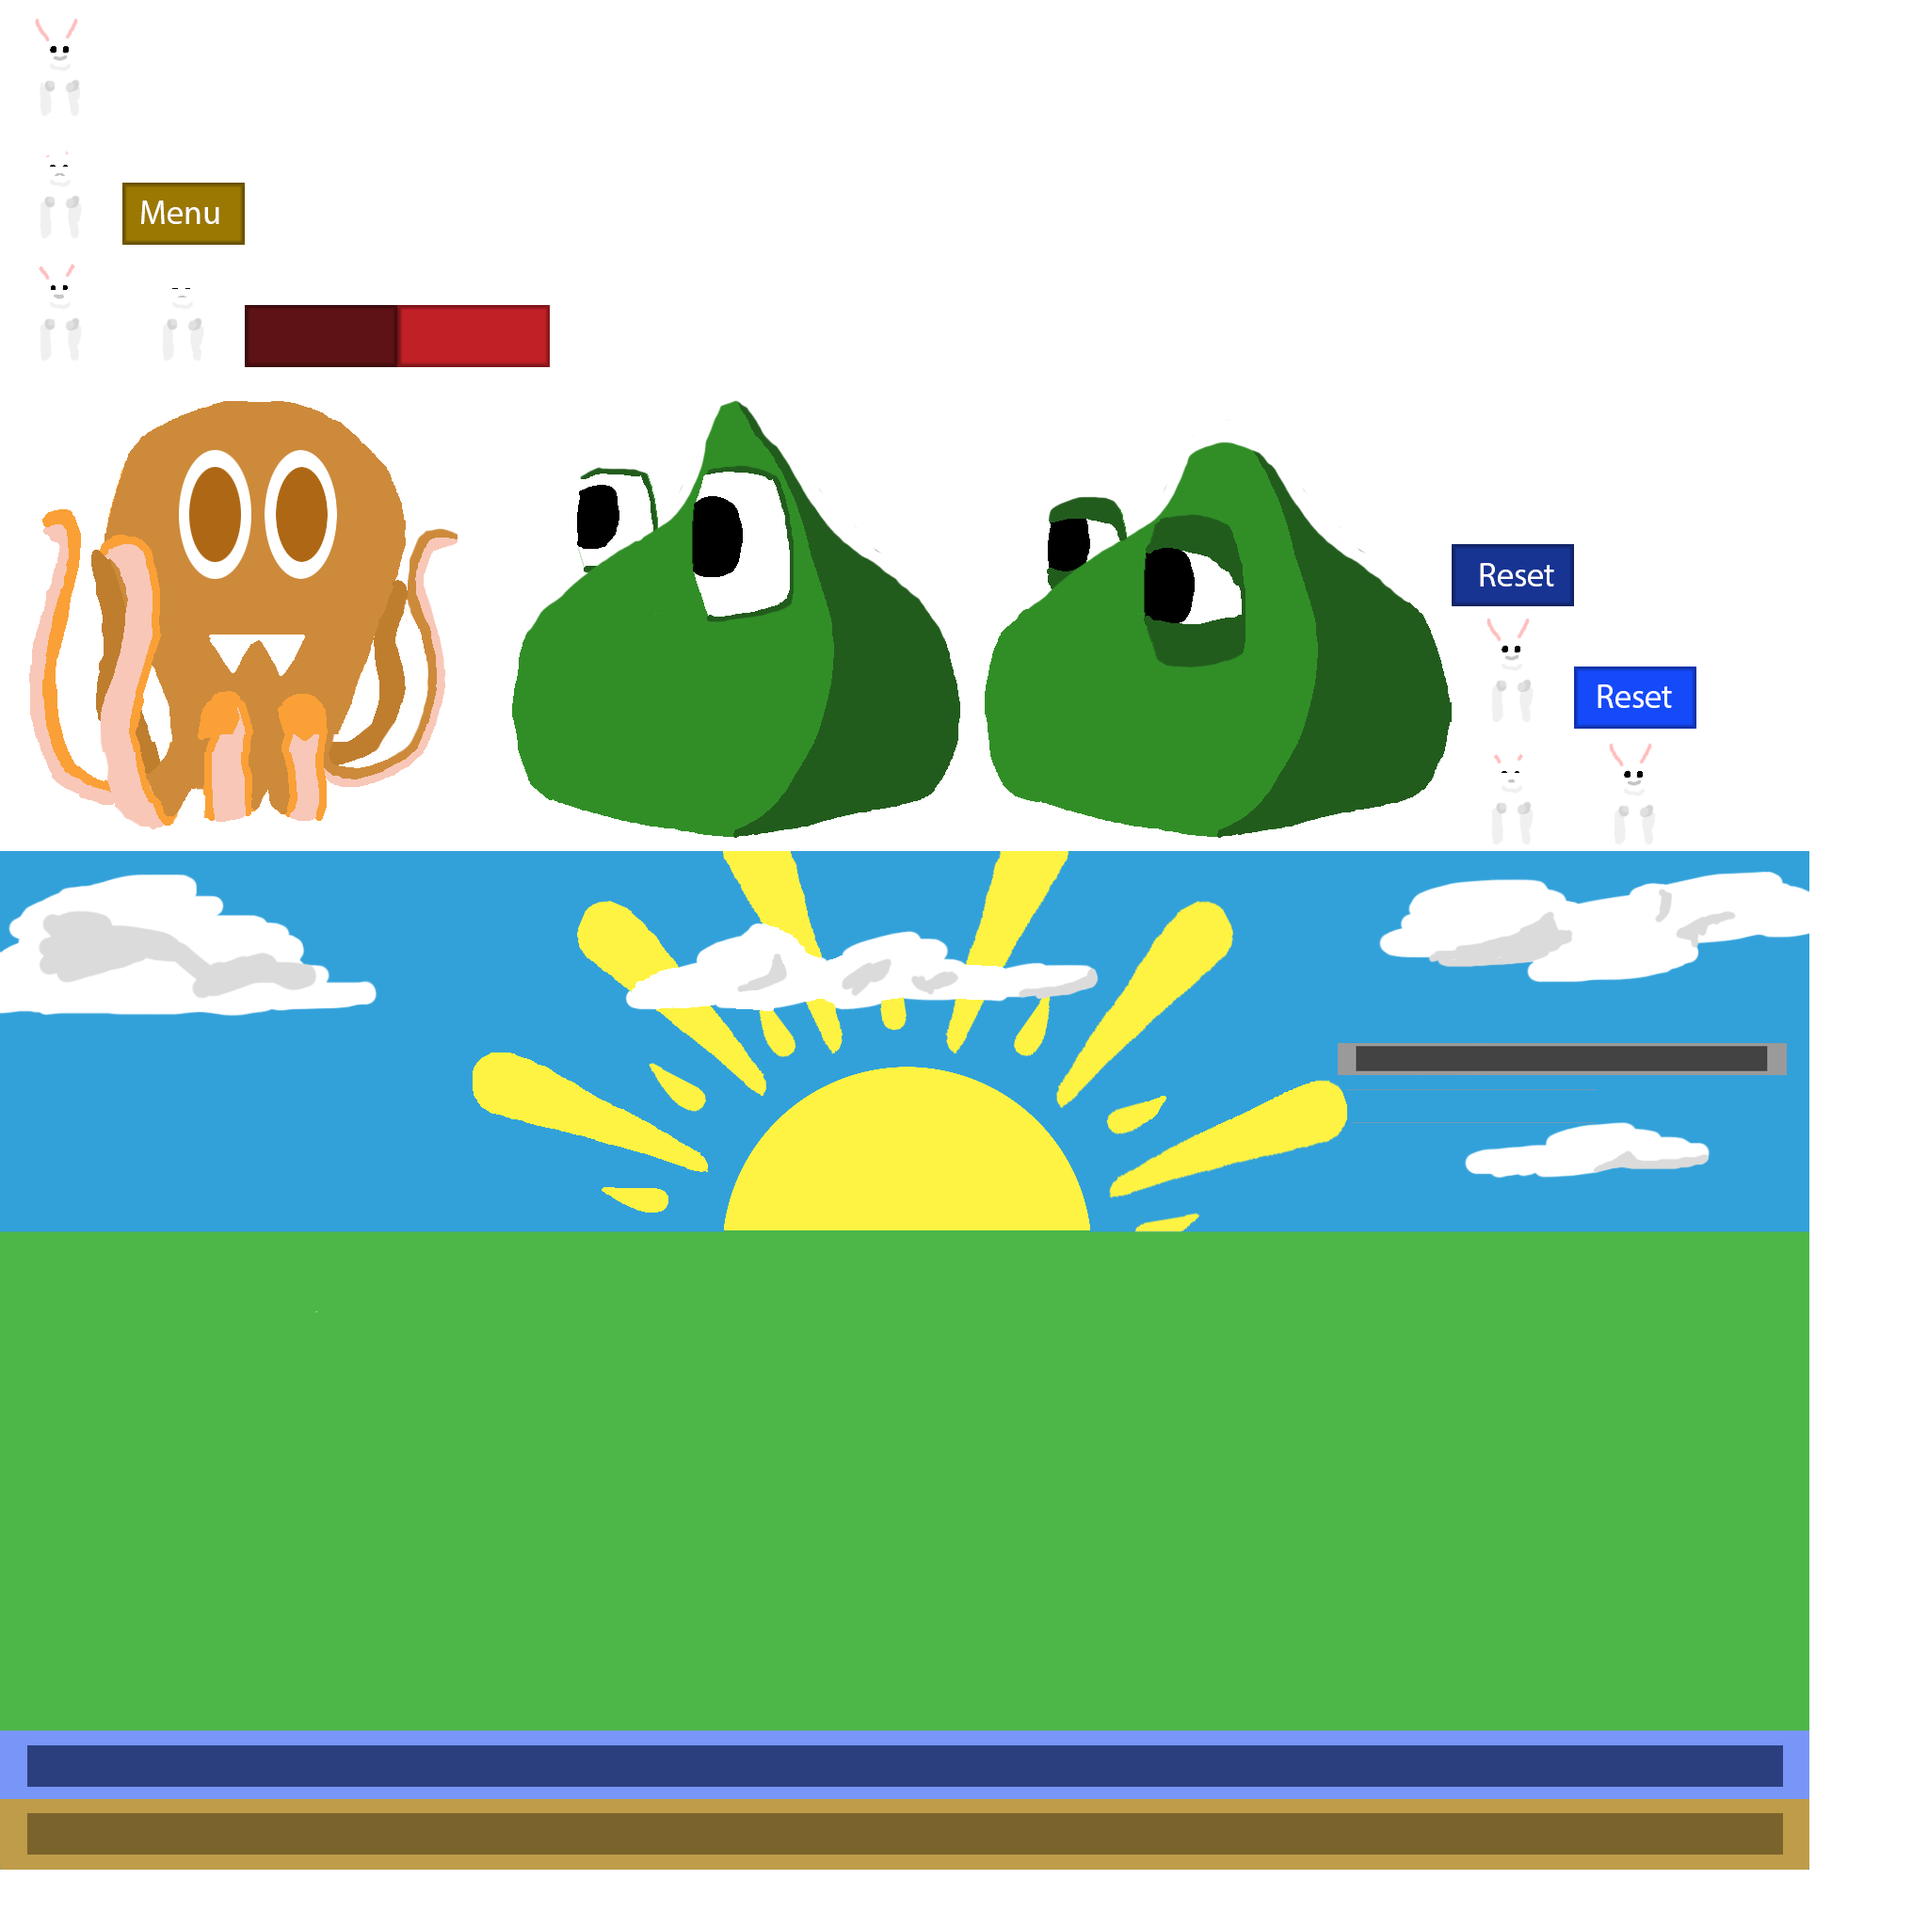
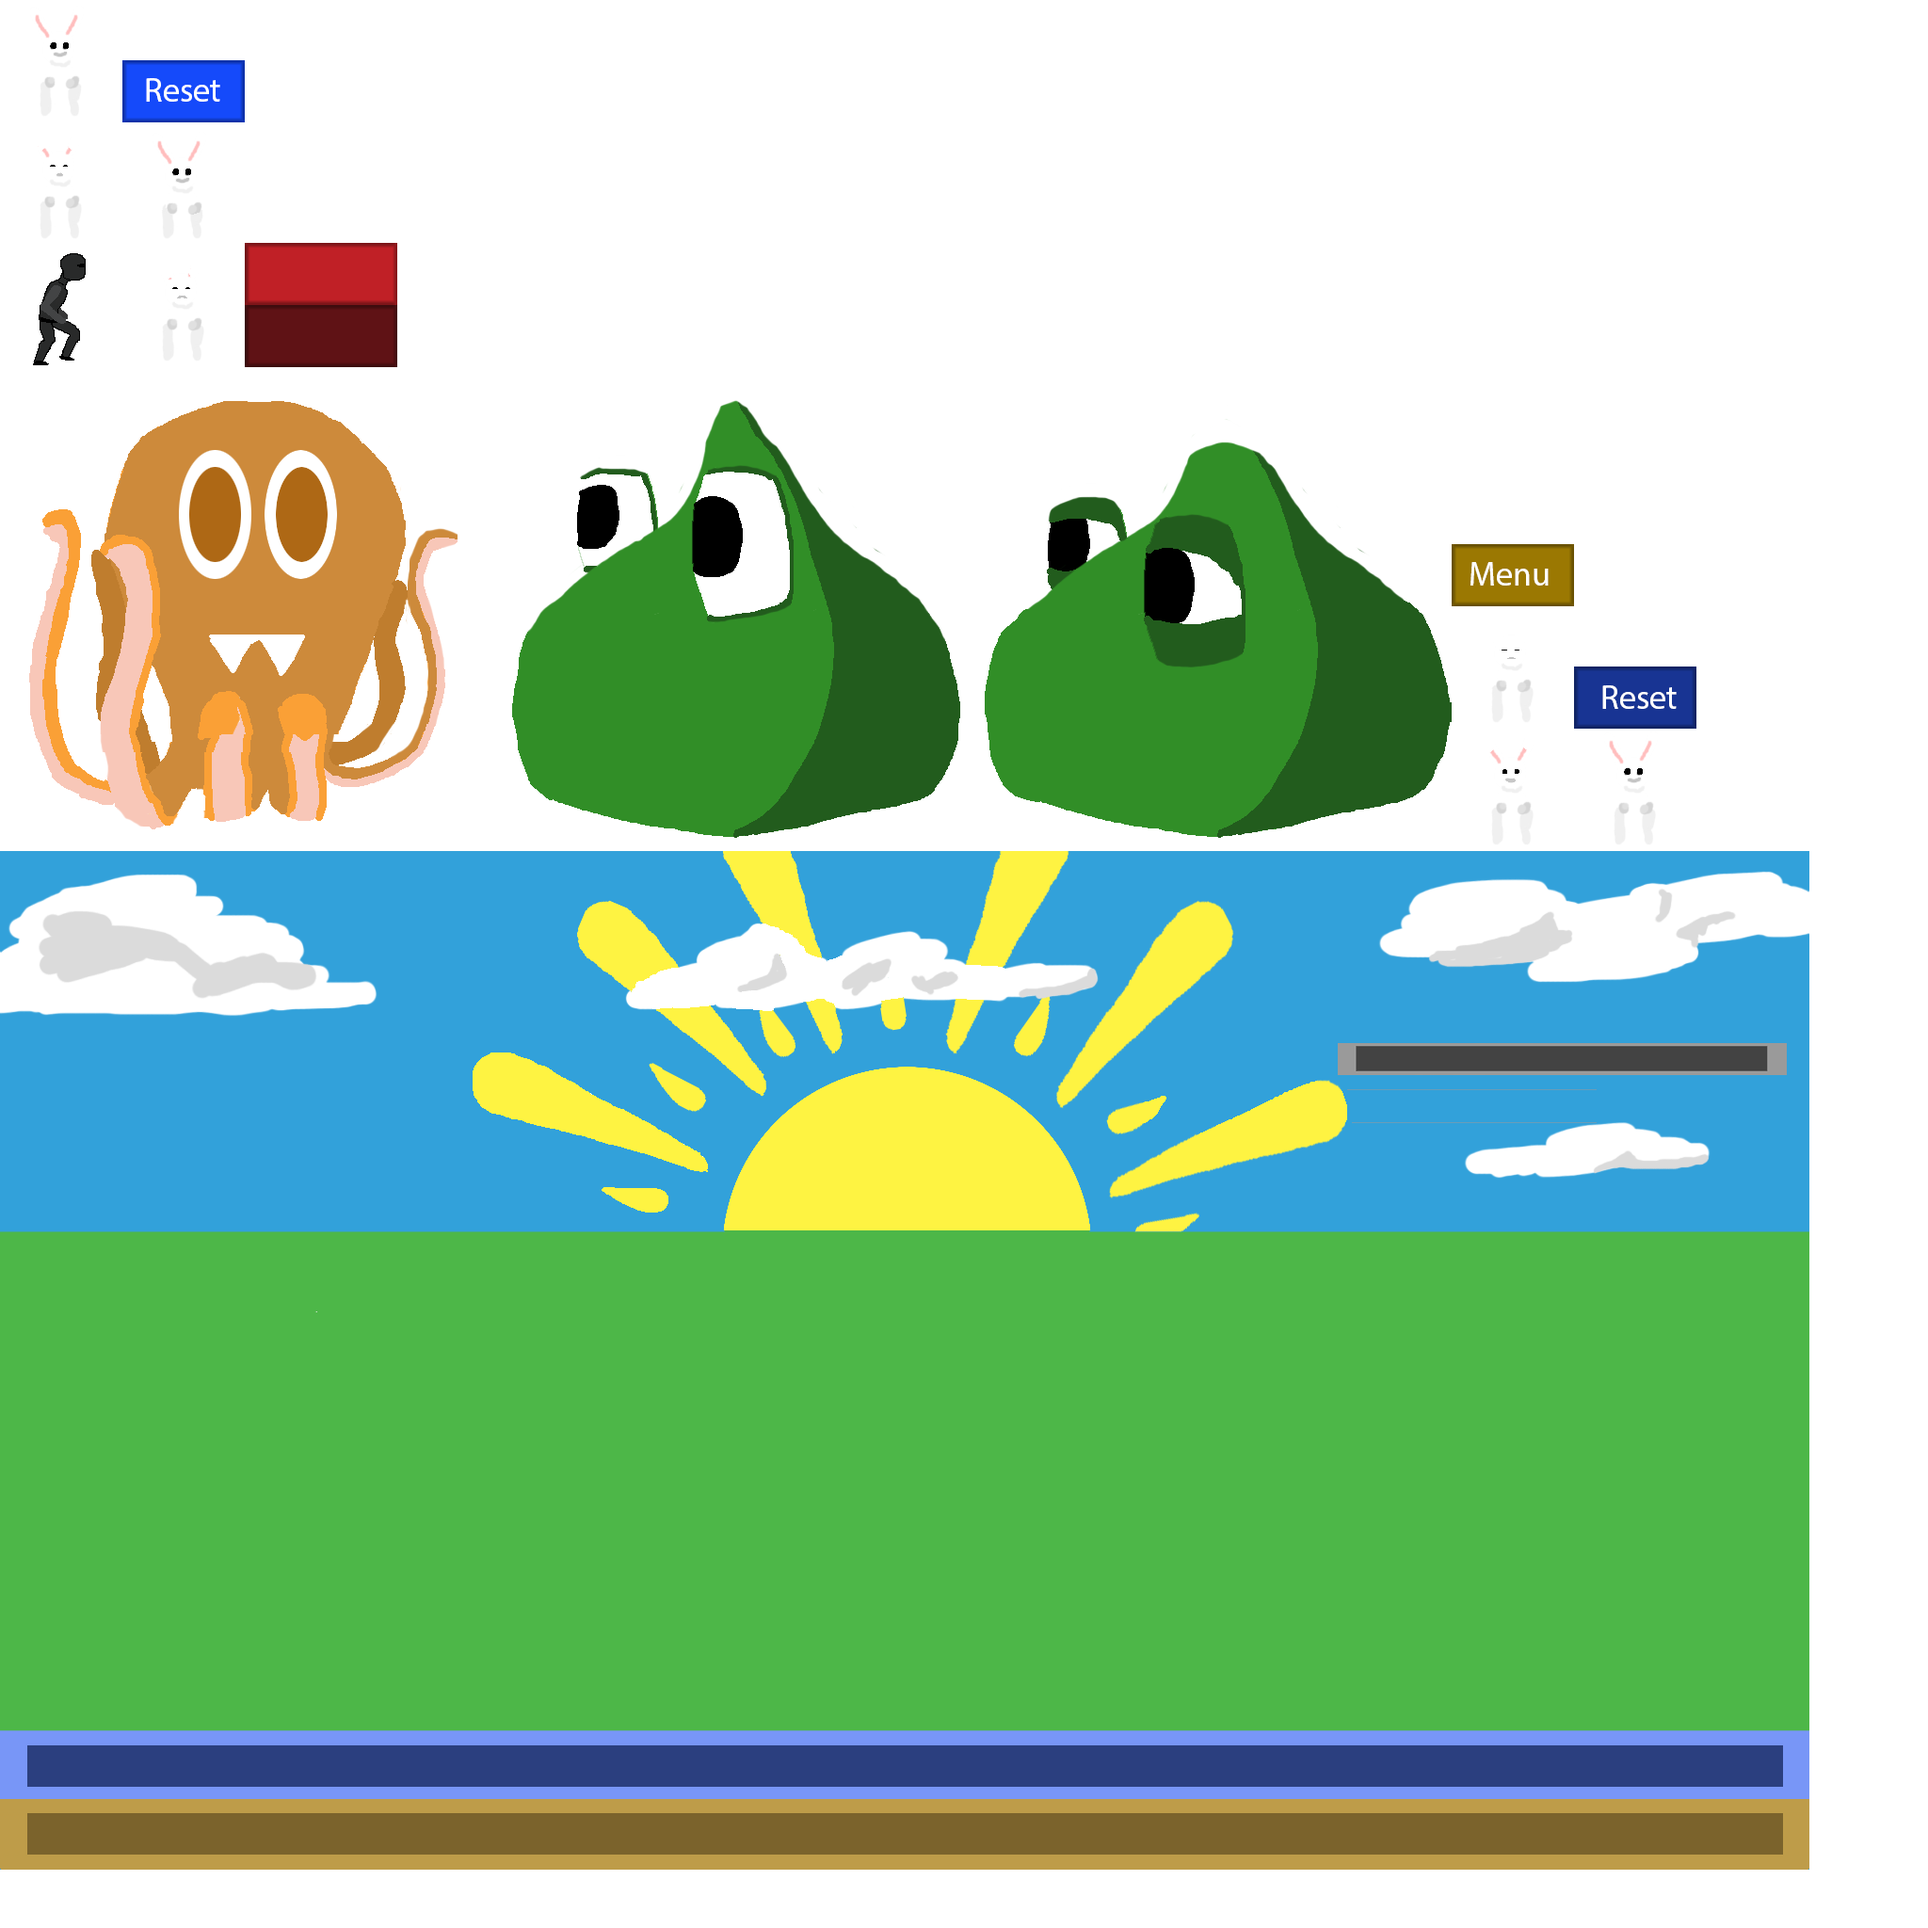
Artifacts Fixes
Retire icon added
Text updates for inheritance awarded when you retire

diff --git a/core/src/com/tophattiger/GameObjects/Characters/Hero.java b/core/src/com/tophattiger/GameObjects/Characters/Hero.java
@@ -5,6 +5,7 @@ import com.badlogic.gdx.graphics.g2d.Batch;
 import com.badlogic.gdx.graphics.g2d.TextureRegion;
 import com.badlogic.gdx.scenes.scene2d.Actor;
 import com.badlogic.gdx.scenes.scene2d.ui.Image;
+import com.tophattiger.GameWorld.GameRenderer;
 import com.tophattiger.Helper.Data.AssetLoader;
 import com.tophattiger.Helper.Data.DataManagement;
 import com.tophattiger.Helper.Data.Gold;
@@ -34,11 +35,13 @@ public class Hero extends Actor {
     String name,questDescription;
     Animation idle,attack,animation,levelAnimation;
     TextureRegion frame,levelFrame;
+    GameRenderer game;
 
     /**
      * The hero stores the click data, quest data, name and level
      */
-    public Hero(){
+    public Hero(GameRenderer _game){
+        game = _game;
         questCompleted = inheritance= 0;
         touchPower = artifactDamage = 1;
         questProgress = 0;
@@ -83,7 +86,7 @@ public class Hero extends Actor {
     public void draw(Batch batch, float parentAlpha) {
         if(level){
             levelFrame = levelAnimation.getKeyFrame(levelAnimationTime);
-            batch.draw(levelFrame,positionX-80,positionY-40,256,256);
+            batch.draw(levelFrame, positionX - 80, positionY - 40, 256, 256);
         }
         frame = animation.getKeyFrame(animationTime,true);
         batch.draw(frame, positionX, positionY, 256, 256);
@@ -97,6 +100,7 @@ public class Hero extends Actor {
         touchCost = touchCost * 1.5;
         touchPower = touchLevel*1.2;
         levelAnimation();
+        game.getTable().updateInheritance();
     }
 
     /**
@@ -139,8 +143,12 @@ public class Hero extends Actor {
         inheritance += touchLevel; //Need to come up with algorithm
     }
 
+    public int getPossibleInheritance(){
+        return touchLevel;
+    }
+
     /**
-     * subtract inheritance after bying artifact
+     * subtract inheritance after buying artifact
      */
     public void buyArtifact(double cost){
         inheritance -= cost;

diff --git a/core/src/com/tophattiger/Helper/Abilities/BaseAbility.java b/core/src/com/tophattiger/Helper/Abilities/BaseAbility.java
@@ -93,6 +93,8 @@ public class BaseAbility extends Button{
             });
 
         }
+        else
+            picture = new Image(AssetLoader.textureAtlas.findRegion("abilityRetireIcon"));
     }
 
     /**
@@ -215,7 +217,7 @@ public class BaseAbility extends Button{
     /**
      * Set the description of the ability in the upgrade shop
      */
-    private void setDescription(){
+    public void setDescription(){
         description = "Activate ability to ";
         if(type == TYPE.BIGDAMAGE){
             description += "deal " + Gold.getNumberWithSuffix(amount) + " damage to the enemy";
@@ -227,7 +229,7 @@ public class BaseAbility extends Button{
             description += "drop "+ Gold.getNumberWithSuffix(amount) + " gold every tap";
         }
         else if(type == TYPE.RETIRE){
-            description += "restart with " + Gold.getNumberWithSuffix(amount) + " artifacts";
+            description += "restart with " + Gold.getNumberWithSuffix(game.getHero().getPossibleInheritance()) + " artifacts";
         }
     }
 
@@ -241,6 +243,7 @@ public class BaseAbility extends Button{
         setStats();
         setCost();
         setDescription();
+        game.getTable().updateInheritance();
     }
 
     /**

diff --git a/core/src/com/tophattiger/UI/Background.java b/core/src/com/tophattiger/UI/Background.java
@@ -12,6 +12,7 @@ import com.tophattiger.GameObjects.Characters.Enemy;
 import com.tophattiger.GameWorld.GameRenderer;
 import com.tophattiger.Helper.Data.AssetLoader;
 import com.tophattiger.Helper.Data.DataHolder;
+import com.tophattiger.Helper.Data.Gold;
 import com.tophattiger.UI.Menu.NameScreen;
 
 
@@ -54,6 +55,7 @@ public class Background extends Actor {
                     if(abilityGoldTime > 0){    //Drop coins if the gold ability is activated and tapped
                         game.dropCoins((int)abilityGoldAmount,1);
                     }
+                    Gold.add(100000);
                     touch = true;
                     combo.tap();    //Increase combo
                     for (int i = activeEnemies.size; --i >= 0; ) {

diff --git a/core/src/com/tophattiger/UI/Table/Hero/AbilityGroup.java b/core/src/com/tophattiger/UI/Table/Hero/AbilityGroup.java
@@ -66,6 +66,10 @@ public class AbilityGroup {
         }
         else abilityButton.setChecked(false);
     }
+    public void updateDescription(){
+        ability.setDescription();
+        description.setText(ability.getDescription());
+    }
     public void reset(){
         level.setText("Level " + Gold.getNumberWithSuffix(ability.getLevel()));
         currentAmount.setText("Current: " + Gold.getNumberWithSuffix(ability.getCurrentAmount()));

diff --git a/core/src/com/tophattiger/UI/Table/Hero/HeroTable.java b/core/src/com/tophattiger/UI/Table/Hero/HeroTable.java
@@ -172,6 +172,10 @@ public class HeroTable extends Table {
         add(name).padBottom(20f).center().padLeft(20f);add();add(touchPower).center().row();
     }
 
+    public void updateInheritance(){
+        abilityGroups.get(abilityList.getAbilitiesUnlocked() - 1).updateDescription();
+    }
+
     public void reset(){
         this.clearChildren();
         addHero();

diff --git a/core/src/com/tophattiger/GameWorld/GameRenderer.java b/core/src/com/tophattiger/GameWorld/GameRenderer.java
@@ -144,7 +144,7 @@ public class GameRenderer {
     public void loadAssets(){
         DataHolder.Initialize();
 
-        hero = new Hero();
+        hero = new Hero(this);
         enemy = enemyPool.obtain();
         enemy.init();
         activeEnemies.add(enemy);

diff --git a/core/src/com/tophattiger/UI/Table/UpgradeTable.java b/core/src/com/tophattiger/UI/Table/UpgradeTable.java
@@ -150,6 +150,10 @@ public class UpgradeTable extends Table {
         heroTable.reset();
     }
 
+    public void updateInheritance(){
+        heroTable.updateInheritance();
+    }
+
     /**
      * Load each table
      */
